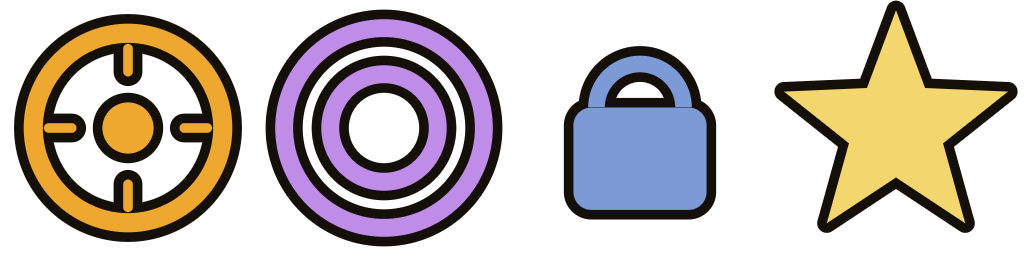
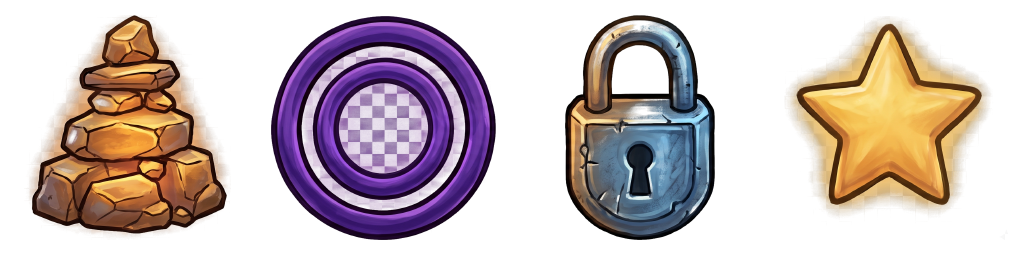
Put the painted marks in
A cairn for the goal, rings for the portal, a padlock for the gate, a star for
the wild — cut from a generated sheet into the four-cell atlas C-29 asks for.
This is the presentation the two unconstrained palettes get; §21's four keep the
drawn-in-code silhouettes, which is tested.

The cutter learned two things from real sheets, both of which had defeated it.

Background colours are learned in **coarse buckets**, not counted exactly. A
generated sheet is compressed, so its flat background is not one number — this
one's two greys arrive spread over #9b9b9b…#9f9f9f and #bdbdbd…#c0c0c0. Counting
exact values split each background across half a dozen entries, none of which
then looked common enough to *be* the background, and the fill cleared 8% of a
sheet that was two-thirds background.

And the fill is **eight-connected**, and unbounded when the background is a
checkerboard. On a checkerboard the squares of one shade meet only at their
corners, so a four-connected fill cannot leave the square it starts in. Treating
a checkerboard as removable everywhere — rather than only where it reaches the
border — is what finally cleared the gap under the padlock's shackle: nothing is
ever *drawn* on a transparency preview, so grey enclosed by ink is the preview
showing through. A plain white background keeps the cautious border-only rule,
because white inside a shape may well be paint.

What is left is one blemish, recorded rather than hidden: the portal was drawn
[…]

diff --git a/hexflow/tools/cut_marks.py b/hexflow/tools/cut_marks.py
@@ -50,7 +50,11 @@ MARGIN = 0.06
 ## this sheet's portal trails a pale smear a long way left of its body, and a box
 ## drawn around the smear would scale the portal down to fit a cell it never
 ## actually filled.
-WHITE = 236
+## How far a pixel may sit from a learned background colour and still be background,
+## and how coarsely colours are bucketed while learning them. Both are sized for
+## compression noise on a flat fill, which is a few levels either way.
+BACKGROUND_TOLERANCE = 16
+BUCKET = 8
 INK_FOR_BOUNDS = 40
 
 
@@ -161,36 +165,138 @@ def already_cut_out(width, height, rows):
     return True
 
 
+def background_colours(width, height, rows):
+    """The one or two flat colours the art is sitting on, learned from the border.
+
+    A generator asked for transparency will often hand back a *picture of*
+    transparency — the grey checkerboard its own preview draws, flattened into the
+    pixels. That is two colours in a regular grid rather than one, so the background
+    cannot be assumed to be white, and it cannot be assumed to be a single value
+    either. Both are read off the border, where the art is not.
+    """
+    # Tallied in coarse buckets, not by exact value. A generated sheet is
+    # compressed, so its flat background is not one number — this one's two greys
+    # arrive spread over #9b9b9b…#9f9f9f and #bdbdbd…#c0c0c0. Counting exact
+    # colours splits each background across half a dozen entries, none of which
+    # then looks common enough to *be* the background, and the fill clears almost
+    # nothing.
+    tally = {}
+    samples = 0
+    def note(x, y):
+        nonlocal samples
+        p = rows[y][x * 4:x * 4 + 3]
+        key = (p[0] // BUCKET, p[1] // BUCKET, p[2] // BUCKET)
+        tally[key] = tally.get(key, 0) + 1
+        samples += 1
+
+    for x in range(0, width, 3):
+        for y in (0, 1, height - 2, height - 1):
+            note(x, y)
+    for y in range(0, height, 3):
+        for x in (0, 1, width - 2, width - 1):
+            note(x, y)
+
+    ranked = sorted(tally.items(), key=lambda kv: -kv[1])
+    picked, covered = [], 0
+    for bucket, count in ranked[:4]:
+        # Keep taking colours until the border is accounted for. A checkerboard
+        # needs two; a plain white sheet needs one; a stray pixel of art touching
+        # the edge needs none of them and never gets that far.
+        if covered >= samples * 0.9:
+            break
+        if count * 8 < samples:
+            break
+        picked.append(tuple(v * BUCKET + BUCKET // 2 for v in bucket))
+        covered += count
+    return picked or [(255, 255, 255)]
+
+
+def is_checkerboard(palette):
+    """Whether the learned background is a transparency *preview* rather than a fill.
+
+    Two or more flat neutral greys is not something art is laid on; it is the
+    checkerboard an image tool draws behind nothing. The distinction earns its keep
+    below — it is what says whether background enclosed by ink may be removed.
+    """
+    if len(palette) < 2:
+        return False
+    for c in palette:
+        if max(c) - min(c) > 6:
+            return False
+    return True
+
+
 def drop_background(width, height, rows):
-    """Clear the white that is connected to the border, and only that."""
-    def whiteish(x, y):
-        p = rows[y][x * 4:x * 4 + 4]
-        return p[0] >= WHITE and p[1] >= WHITE and p[2] >= WHITE
+    """Clear the background, and grade the pixels that are partly it.
 
-    seen = bytearray(width * height)
-    stack = []
-    for x in range(width):
-        stack.append((x, 0))
-        stack.append((x, height - 1))
-    for y in range(height):
-        stack.append((0, y))
-        stack.append((width - 1, y))
+    Two modes, and which applies is not a preference — it is what the picture can be
+    *known* to mean.
 
-    while stack:
-        x, y = stack.pop()
-        if x < 0 or y < 0 or x >= width or y >= height:
-            continue
-        if seen[y * width + x] or not whiteish(x, y):
-            continue
-        seen[y * width + x] = 1
-        stack.extend([(x + 1, y), (x - 1, y), (x, y + 1), (x, y - 1)])
+      * A **checkerboard** is removed everywhere, enclosed or not. Nothing is drawn
+        on a checkerboard, so grey inside a portal's centre or under a padlock's
+        shackle is the preview showing through and never paint.
+      * A **flat colour** is removed only where it connects to the border. White in
+        the middle of a reticle may well be painted, and this cannot tell; so it
+        keeps it, and the module docstring says so.
 
+    Either way the edge is graded rather than cut: a pixel sitting between the art
+    and the background — the outside of a soft glow — gets partial alpha in
+    proportion to how far it has travelled from the background colour. Without that,
+    the glows come away with a rind of half-erased checkerboard around them.
+
+    Eight-connected, in the flood-fill case. On a checkerboard the squares of one
+    colour meet only at their corners, so a four-connected fill cannot leave the
+    square it starts in.
+    """
+    palette = background_colours(width, height, rows)
+    checker = is_checkerboard(palette)
+    print("  background: %s%s" % (", ".join("#%02x%02x%02x" % c for c in palette),
+                                  " (a transparency checkerboard)" if checker else ""))
+
+    def distance(x, y):
+        p = rows[y][x * 4:x * 4 + 3]
+        best = 255
+        for c in palette:
+            best = min(best, max(abs(p[0] - c[0]), abs(p[1] - c[1]), abs(p[2] - c[2])))
+        return best
+
+    keep = None
+    if not checker:
+        keep = bytearray(b"\x01" * (width * height))
+        stack = []
+        for x in range(width):
+            stack.extend([(x, 0), (x, height - 1)])
+        for y in range(height):
+            stack.extend([(0, y), (width - 1, y)])
+        while stack:
+            x, y = stack.pop()
+            if x < 0 or y < 0 or x >= width or y >= height:
+                continue
+            if keep[y * width + x] == 0 or distance(x, y) > BACKGROUND_TOLERANCE * 2:
+                continue
+            keep[y * width + x] = 0
+            for dx, dy in ((1, 0), (-1, 0), (0, 1), (0, -1),
+                           (1, 1), (1, -1), (-1, 1), (-1, -1)):
+                stack.append((x + dx, y + dy))
+
+    cleared = 0
     for y in range(height):
         row = rows[y]
         base = y * width
         for x in range(width):
-            if seen[base + x]:
+            if keep is not None and keep[base + x]:
+                continue
+            d = distance(x, y)
+            if d <= BACKGROUND_TOLERANCE:
                 row[x * 4 + 3] = 0
+                cleared += 1
+            elif d < BACKGROUND_TOLERANCE * 3:
+                # Part background, part art: the outside of a glow. Faded rather
+                # than chosen between, or every soft edge keeps a rind of preview.
+                span = BACKGROUND_TOLERANCE * 2
+                row[x * 4 + 3] = min(row[x * 4 + 3],
+                                     int(255 * (d - BACKGROUND_TOLERANCE) / span))
+    print("  cleared %d%% of the sheet" % (cleared * 100 // (width * height)))
     return rows
 
 
@@ -346,8 +452,8 @@ def main():
     boxes = find_icons(width, height, rows)
     print("found %d icons" % len(boxes))
     if len(boxes) != len(CELLS):
-        for i, (x0, y0, x1, y1) in enumerate(boxes):
-            print("  %d  x %d…%d  y %d…%d" % (i, x0, x1, y0, y1))
+        for i, box in enumerate(boxes):
+            print("  %d  %s" % (i, box))
         raise SystemExit(
             "expected %d icons in a row (%s). Re-generate the sheet, or crop it so "
             "there is clear background between each one."

diff --git a/TODO.md b/TODO.md
@@ -113,11 +113,12 @@ action rows, and it only fits because the key hints were moved into the legend.
       survive colour being taken away; the others may use `assets/art/marks.png`, drawn *instead of*
       the silhouette and untinted, because finished art carries its own colour. The silhouette is the
       floor — no file, or an assistive palette, and the board draws what it always drew. **The
-      atlas is a **generated stand-in** (`make marks`, committed like `make sfx`'s effects): the same
-      four shapes the shader draws, in colour and outlined. It exists to prove the slot rather than to
-      look good — four cells in the right order, alpha that composites, colour that survives not
-      being tinted — so the day painted art arrives it is a file swap and not a debugging session.
-      `make assets ROLE=marks` says what to paint
+      atlas is **painted art** now — a cairn, portal rings, a padlock and a star, cut from a
+      generated sheet by `make marks-cut`. `make marks` still renders the drawn-in-code stand-in if
+      the atlas is ever lost. **One known blemish**: the portal was drawn with a semi-transparent
+      centre over a checkerboard preview, and a blend of paint and checker is not something a
+      threshold can undo, so a faint pattern survives inside its innermost ring. Invisible at tile
+      size; fixed properly by a sheet whose portal centre is opaque
 - [x] Tiles read as **slabs** rather than as a relief cut into one surface — three changes together:
       the grain is sampled per tile and turned by a hash of the tile's own origin (it was one sheet
       the hexes were cut out of, and looked it); the top is **chamfered**, so the rim has its own
